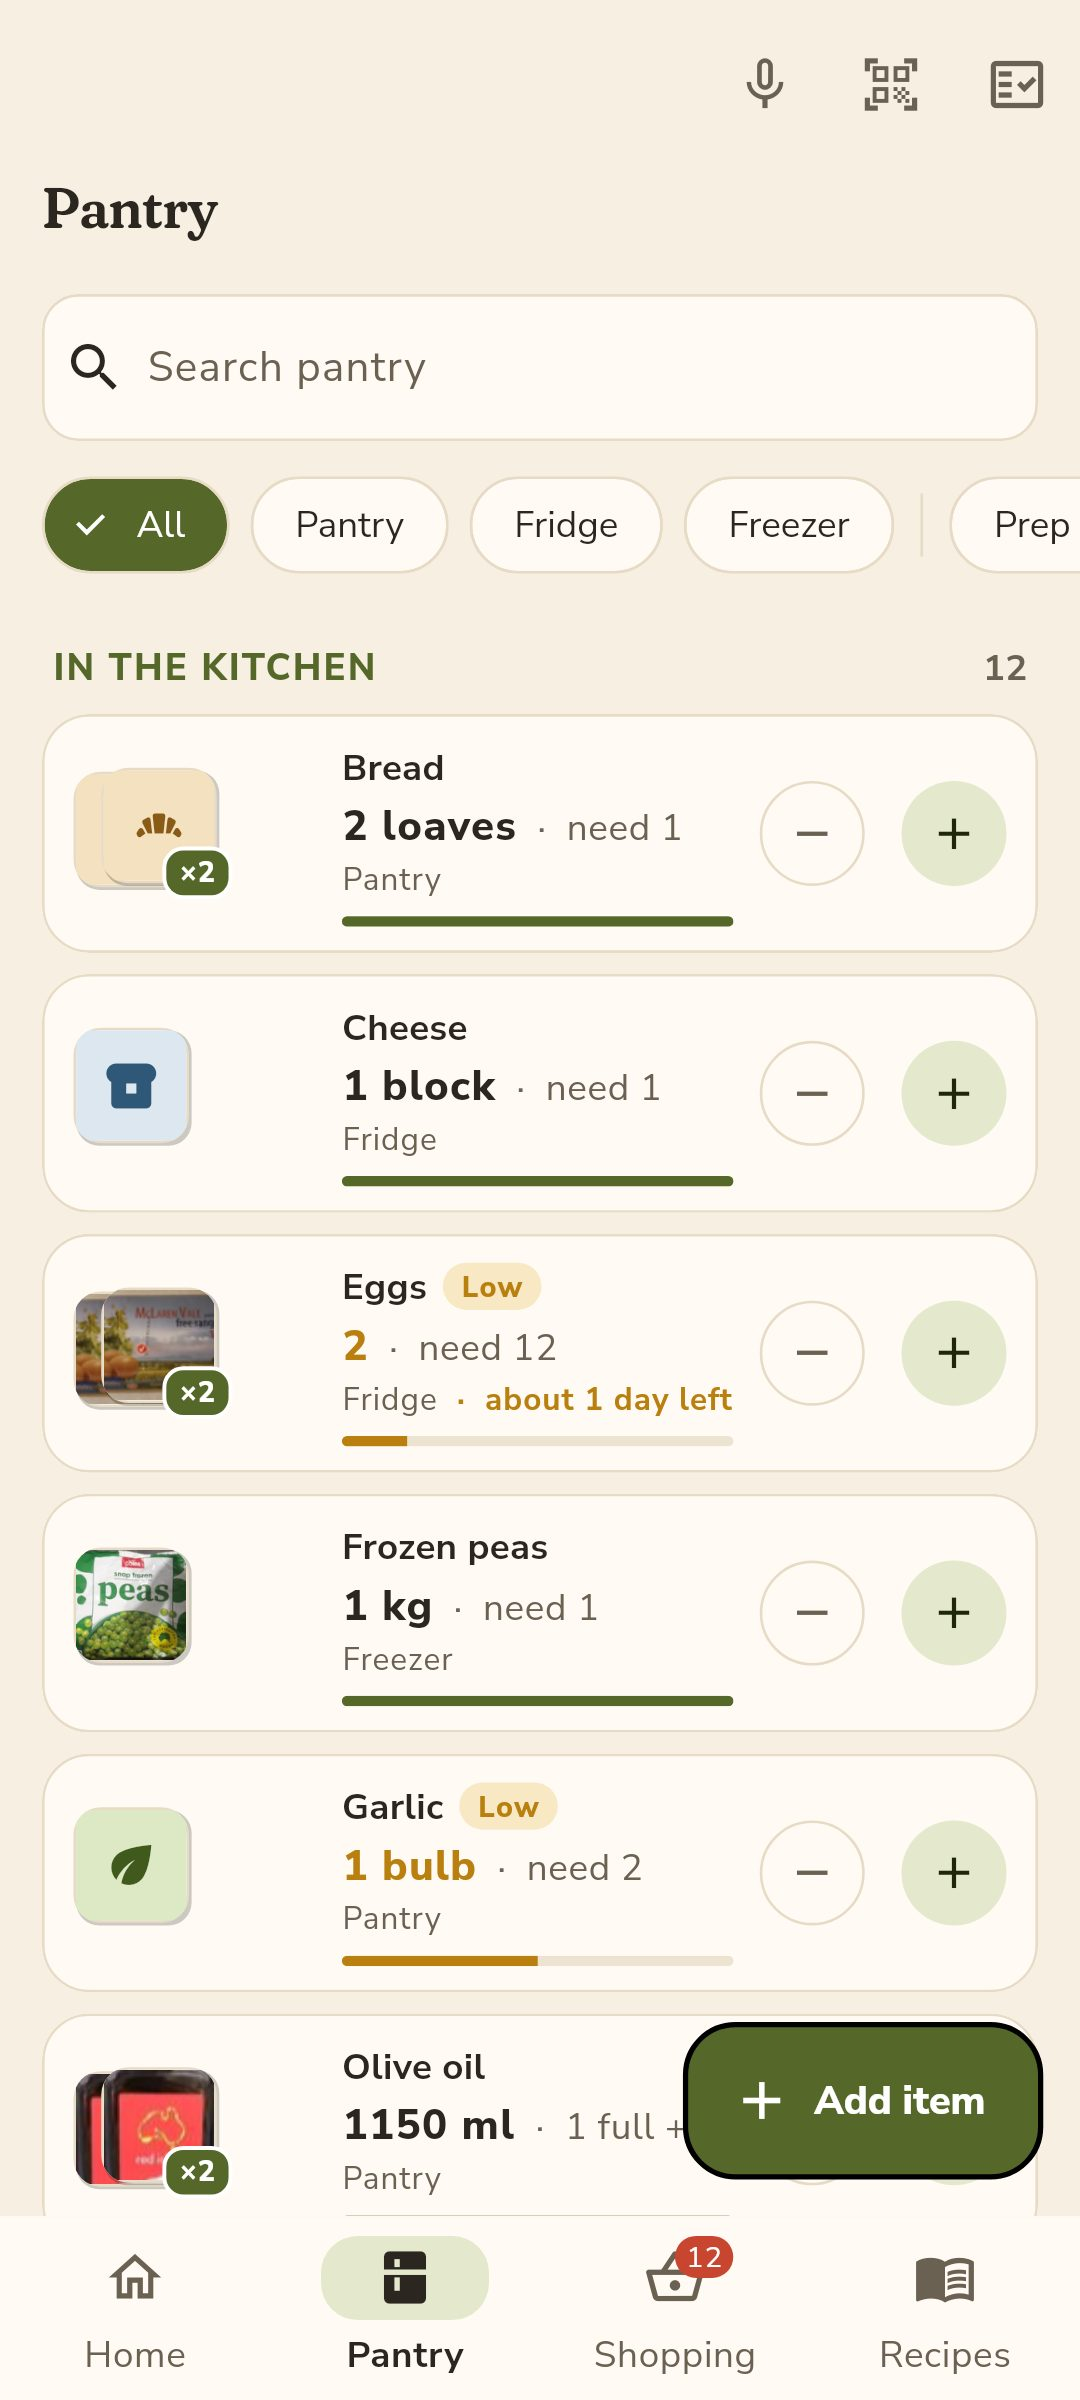
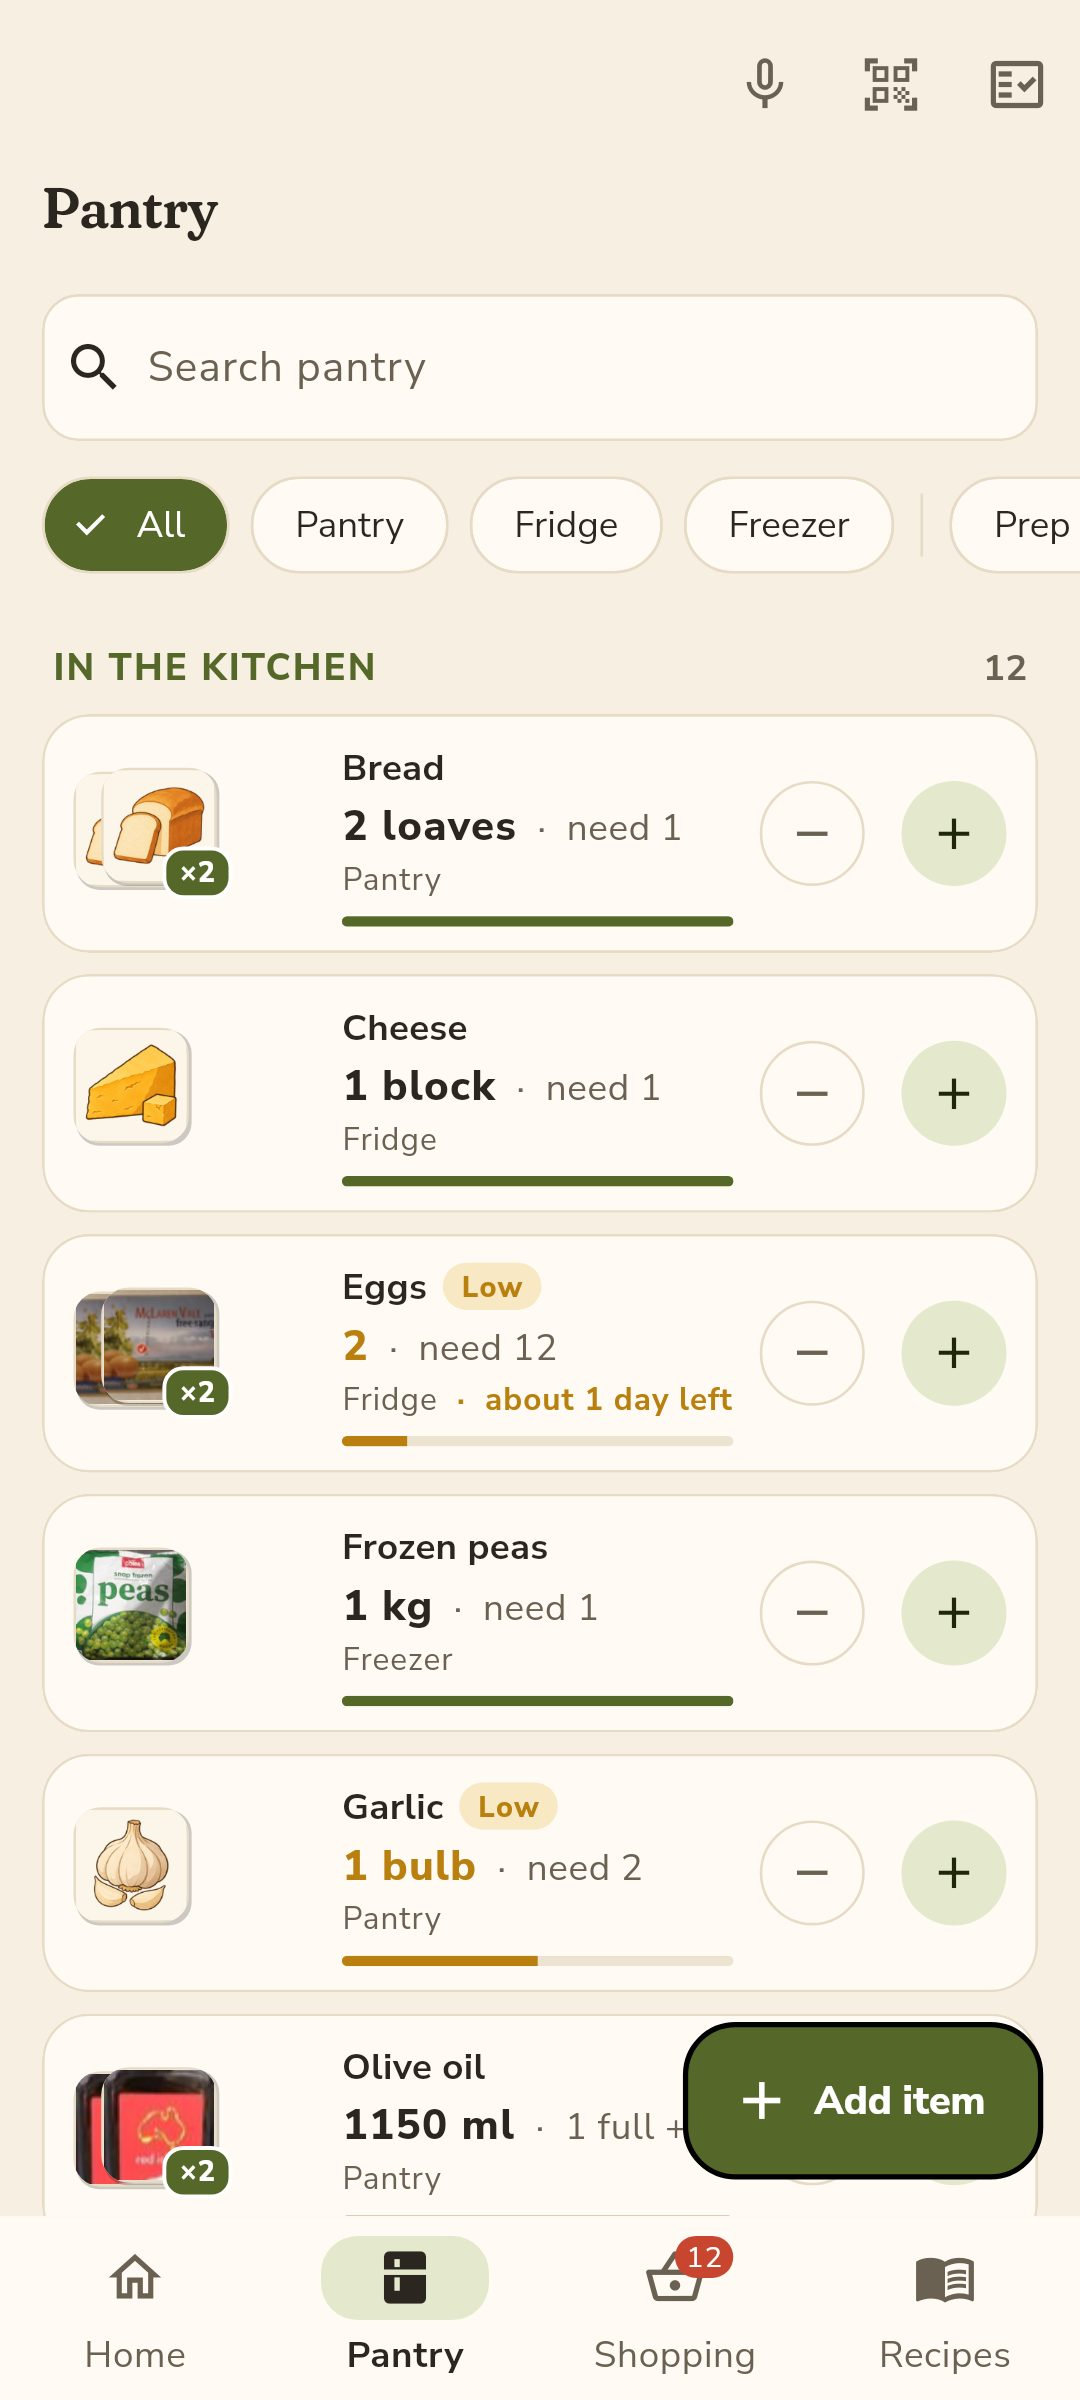
v0.12.0: drawn food pictures (30, ink and wash) (#24)
Chris, 16 Nov 22:08: 'Trim and attach to products'. 30 generated drawings
trimmed to transparent 192 px PNGs in assets/food/, matched by folded name
(artFor in item_look.dart, ownThings guard). Settings > Pictures chooses
product photos or drawings first; own photos always win.

Claude-Session: https://claude.ai/code/session_01M63q4K2MUdGuMQSrokuugd

Changed region(s): [[0.0611, 0.4062, 0.1833, 0.5], [0.0611, 0.3125, 0.2139, 0.375], [0.0611, 0.75, 0.1833, 0.8125]]

diff --git a/test/v012_drawings_test.dart b/test/v012_drawings_test.dart
@@ -1,0 +1,79 @@
+import 'dart:io';
+
+import 'package:flutter_test/flutter_test.dart';
+import 'package:material_ui/material_ui.dart';
+import 'package:pantry_app/data/household_store.dart';
+import 'package:pantry_app/data/storage_backend.dart';
+import 'package:pantry_app/data/store_scope.dart';
+import 'package:pantry_app/ui/theme.dart';
+import 'package:pantry_app/ui/widgets/item_look.dart';
+import 'package:pantry_app/ui/widgets/pictures.dart';
+
+void main() {
+  test('names get the right drawing, however they are typed', () {
+    final cases = <String, String?>{
+      'Bread': 'bread',
+      'Eggs': 'eggs',
+      'UHT milk': 'milk',
+      'Shallots': 'spring-onions',
+      'spring onions': 'spring-onions',
+      'Onions': 'onions',
+      'Tins: tomatoes': 'tinned-tomatoes',
+      'Diced tomatoes': 'tinned-tomatoes',
+      'Tomatoes': 'tomatoes',
+      'Tins: fish': 'tuna',
+      'Baked beans': 'baked-beans',
+      'White rice': 'rice',
+      'Rolled oats': 'oats',
+      'Frozen peas': 'frozen-peas',
+      'Olive oil': 'olive-oil',
+      'Soy sauce': 'soy-sauce',
+      'Beef mince': 'mince',
+      'Chicken thighs': 'chicken',
+      'Washed potatoes': 'potatoes',
+      'Tea bags': 'tea',
+      'Honey': 'honey',
+      // Names of their own: no drawing rather than the wrong one.
+      'Coconut milk': null,
+      'Peanut butter': null,
+      'Chicken stock': null,
+      'Sweet potato': null,
+      'Canola oil': null,
+      'Batteries AAA': null,
+    };
+    for (final MapEntry(key: name, value: art) in cases.entries) {
+      expect(artFor(name), art == null ? isNull : 'assets/food/$art.png', reason: name);
+    }
+  });
+
+  test('every drawing named in the map is in the app', () {
+    for (final name in ['Bread', 'Shallots', 'Tins: fish', 'Rolled oats', 'Honey', 'Frozen peas']) {
+      expect(File(artFor(name)!).existsSync(), isTrue, reason: name);
+    }
+    expect(Directory('assets/food').listSync().where((f) => f.path.endsWith('.png')), hasLength(30));
+  });
+
+  testWidgets('a drawing shows where there is no photo; Drawings puts it first', (tester) async {
+    final store = HouseholdStore(MemoryBackend());
+    await store.load();
+    Widget pic(String name, {String? url}) => StoreScope(
+      store: store,
+      child: MaterialApp(
+        theme: buildTheme(Brightness.light),
+        home: Center(
+          child: ProductPicture(name: name, imageUrl: url),
+        ),
+      ),
+    );
+    await tester.pumpWidget(pic('Shallots'));
+    expect(find.byKey(const ValueKey('picture-drawing')), findsOneWidget);
+    await tester.pumpWidget(pic('Batteries AAA'));
+    expect(find.byKey(const ValueKey('picture-icon')), findsOneWidget);
+    // A product photo wins by default; with Drawings the drawing does.
+    await tester.pumpWidget(pic('Bread', url: 'https://images.openfoodfacts.org/x.jpg'));
+    expect(find.byKey(const ValueKey('picture-drawing')), findsNothing);
+    await store.setSetting('pictures', 'drawings');
+    await tester.pump();
+    expect(find.byKey(const ValueKey('picture-drawing')), findsOneWidget);
+  });
+}

diff --git a/lib/ui/widgets/item_look.dart b/lib/ui/widgets/item_look.dart
@@ -1,5 +1,7 @@
 import 'package:material_ui/material_ui.dart';
 
+import '../../logic/names.dart';
+
 /// What an item looks like when it has no photo: an icon for what it is, on
 /// the colour of its family (greens for fresh food, wheat for bread, blue for
 /// dairy). Replaces the plain first letter (v0.10).
@@ -142,4 +144,57 @@ ItemLook lookFor(String name, {String? locationId}) {
   final byPlace = _byLocation[locationId];
   if (byPlace != null) return ItemLook(byPlace.$1, byPlace.$2);
   return const ItemLook(Icons.shopping_basket, LookFamily.other);
+}
+
+/// Drawn pictures (assets/food/), each with the names it is for, most
+/// specific first. Names are compared folded (names.dart), word by word:
+/// "Shallots" is spring onions, "Tins: fish" is the tuna tin.
+const List<(String, List<String>)> _art = [
+  ('tinned-tomatoes', ['tin tomato', 'tomato tin', 'diced tomato', 'crushed tomato', 'chopped tomato', 'passata']),
+  ('baked-beans', ['baked bean']),
+  ('tuna', ['tuna', 'tin fish', 'fish tin', 'sardine']),
+  ('spring-onions', ['spring onion']),
+  ('olive-oil', ['olive oil']),
+  ('soy-sauce', ['soy sauce', 'tamari']),
+  ('frozen-peas', ['frozen pea', 'pea']),
+  ('mince', ['beef mince', 'pork mince', 'lamb mince', 'chicken mince', 'turkey mince', 'mince']),
+  ('chicken', ['chicken']),
+  ('eggs', ['egg']),
+  ('bread', ['bread', 'loaf', 'toast', 'sandwich bread']),
+  ('milk', ['milk', 'uht', 'full cream milk', 'skim milk']),
+  ('cheese', ['cheese', 'cheddar', 'parmesan', 'mozzarella', 'feta']),
+  ('butter', ['butter', 'margarine']),
+  ('yoghurt', ['yoghurt']),
+  ('rice', ['rice']),
+  ('pasta', ['pasta', 'spaghetti', 'penne', 'macaroni', 'fettuccine', 'lasagne', 'fusilli']),
+  ('flour', ['flour', 'plain flour', 'self raising flour', 'cornflour']),
+  ('sugar', ['sugar', 'brown sugar', 'icing sugar', 'caster sugar', 'raw sugar']),
+  ('onions', ['onion']),
+  ('garlic', ['garlic']),
+  ('potatoes', ['potato']),
+  ('carrots', ['carrot']),
+  ('tomatoes', ['tomato', 'cherry tomato']),
+  ('apples', ['apple']),
+  ('bananas', ['banana']),
+  ('oats', ['oat', 'rolled oat', 'porridge', 'muesli']),
+  ('coffee', ['coffee']),
+  ('tea', ['tea']),
+  ('honey', ['honey']),
+];
+
+/// The drawn picture for [name] (an asset path), or null. A name of its own
+/// that only shares a word ("coconut milk", "peanut butter", "chicken
+/// stock", "sweet potato") gets none rather than the wrong one.
+String? artFor(String name) {
+  final n = ' ${canonicalName(name)} ';
+  if (n.trim().isEmpty) return null;
+  for (final (art, phrases) in _art) {
+    for (final p in phrases) {
+      if (!n.contains(' $p ')) continue;
+      final clash = ownThings.any((t) => n.contains(' $t ') && !phrases.contains(t));
+      if (clash) break;
+      return 'assets/food/$art.png';
+    }
+  }
+  return null;
 }

diff --git a/lib/ui/widgets/pictures.dart b/lib/ui/widgets/pictures.dart
@@ -4,12 +4,15 @@ import 'dart:typed_data';
 import 'package:material_ui/material_ui.dart';
 
 import '../../data/picture_cache.dart';
+import '../../data/store_scope.dart';
 import '../../models/models.dart';
 import 'item_look.dart';
 
 /// One product's picture: the household's own photo first, then the product
-/// picture (downloaded once, then read from the phone), else an icon for what
-/// it is on its family's colour (item_look.dart), never a wrong picture.
+/// picture (downloaded once, then read from the phone), then a drawing of
+/// the food (assets/food/, v0.12; first of all when Settings > Pictures says
+/// Drawings), else an icon for what it is on its family's colour
+/// (item_look.dart), never a wrong picture.
 class ProductPicture extends StatefulWidget {
   const ProductPicture({
     super.key,
@@ -78,6 +81,21 @@ class _ProductPictureState extends State<ProductPicture> {
   /// Decoded at about three times the drawn size: sharp, and small in memory.
   ImageProvider cacheWidthOf(ImageProvider image) => ResizeImage(image, width: (widget.size * 3).round());
 
+  /// One of the drawn food pictures (assets/food/) on the cream it was drawn on.
+  Widget _drawing(BuildContext context, String asset) => Container(
+    key: const ValueKey('picture-drawing'),
+    width: widget.size,
+    height: widget.size,
+    color: Theme.of(context).colorScheme.surfaceContainerLow,
+    padding: EdgeInsets.all(widget.size * 0.06),
+    child: Image.asset(
+      asset,
+      fit: BoxFit.contain,
+      cacheWidth: (widget.size * 3).round(),
+      errorBuilder: (_, _, _) => _blank(context),
+    ),
+  );
+
   Widget _blank(BuildContext context) {
     final b = Theme.of(context).brightness;
     final look = lookFor(widget.name, locationId: widget.item?.locationId);
@@ -96,8 +114,13 @@ class _ProductPictureState extends State<ProductPicture> {
     final scheme = Theme.of(context).colorScheme;
     Widget child;
     final own = widget.photoPath;
+    final art = artFor(widget.name);
+    // Settings > Pictures: drawings first, or product photos first (default).
+    final drawingsFirst = StoreScope.maybeOf(context)?.setting<String>('pictures', 'photos') == 'drawings';
     if (own != null && File(own).existsSync()) {
       child = _image(FileImage(File(own)));
+    } else if (art != null && (drawingsFirst || _bytes == null)) {
+      child = _drawing(context, art);
     } else if (_bytes != null) {
       child = FutureBuilder<Uint8List?>(
         future: _bytes,

diff --git a/lib/ui/pages/settings_page.dart b/lib/ui/pages/settings_page.dart
@@ -71,6 +71,26 @@ class SettingsPage extends StatelessWidget {
             subtitle: const Text('Replaces what is on this phone with the backup'),
             onTap: () => _restore(context),
           ),
+          const SectionHeader('Pictures'),
+          Padding(
+            padding: const EdgeInsets.symmetric(horizontal: 16),
+            child: SegmentedButton<String>(
+              key: const ValueKey('picture-style'),
+              segments: const [
+                ButtonSegment(value: 'photos', label: Text('Product photos'), icon: Icon(Icons.photo_outlined)),
+                ButtonSegment(value: 'drawings', label: Text('Drawings'), icon: Icon(Icons.brush_outlined)),
+              ],
+              selected: {store.setting<String>('pictures', 'photos')},
+              onSelectionChanged: (s) => store.setSetting('pictures', s.first),
+            ),
+          ),
+          const Padding(
+            padding: EdgeInsets.fromLTRB(16, 8, 16, 0),
+            child: Text(
+              'Your own photos always show first. Then product photos or the drawings, whichever you pick; '
+              'the other fills in where there is none. Shared with the household.',
+            ),
+          ),
           const SectionHeader('Stock list'),
           ListTile(
             leading: const Icon(Icons.upload_file_outlined),

diff --git a/tool/screens/screens_test.dart b/tool/screens/screens_test.dart
@@ -337,4 +337,18 @@ void main() {
     );
     await shot(tester, '17-recipe-names');
   });
+
+  testWidgets('v0.12 drawings', (tester) async {
+    tester.view.physicalSize = const Size(1080, 2400);
+    tester.view.devicePixelRatio = 2.625;
+    addTearDown(tester.view.reset);
+    final store = await demoStore();
+    await store.setSetting('pictures', 'drawings');
+    await tester.pumpWidget(PantryApp(store: store));
+    await tester.pumpAndSettle();
+    await tester.tap(find.byKey(const ValueKey('nav-pantry')));
+    await shot(tester, '18-pantry-drawings');
+    await tester.tap(find.byKey(const ValueKey('nav-shopping')));
+    await shot(tester, '19-shopping-drawings');
+  });
 }

diff --git a/lib/data/store_scope.dart b/lib/data/store_scope.dart
@@ -13,6 +13,10 @@ class StoreScope extends InheritedNotifier<HouseholdStore> {
     return scope!.notifier!;
   }
 
+  /// The store, listening, or null where there is none (tests of a widget).
+  static HouseholdStore? maybeOf(BuildContext context) =>
+      context.dependOnInheritedWidgetOfExactType<StoreScope>()?.notifier;
+
   /// Reads the store without listening (for callbacks).
   static HouseholdStore read(BuildContext context) {
     final element = context.getElementForInheritedWidgetOfExactType<StoreScope>();

diff --git a/README.md b/README.md
@@ -21,6 +21,7 @@ Built by [Combination Soup Studio](https://combinationsoupstudio.com.au) in Bate
   <img src="docs/screens/13-use-by-dates.jpg" width="200" alt="Use-by dates grouped: past its date, within a week, within a month, later">
   <img src="docs/screens/14-stocktake.jpg" width="200" alt="Stocktake: one item at a time, That's right or count it">
   <img src="docs/screens/15-receipt.jpg" width="200" alt="Checking a scanned Woolworths receipt: lines matched to stock, total matches">
+  <img src="docs/screens/18-pantry-drawings.jpg" width="200" alt="The Pantry with drawn ink-and-wash food pictures">
   <img src="docs/screens/17-recipe-names.jpg" width="200" alt="A recipe asks: Is it your Shallots? for 3 spring onoins">
   <img src="docs/screens/16-household.jpg" width="200" alt="Household sync: synced just now, add another phone">
 </p>
@@ -118,10 +119,11 @@ flutter run         # on a connected phone or emulator
 | **6** | 0.9 | Household sync between phones (Cloudflare Worker, one database per household); instant updates over a live line while the app is open. **Done.** |
 | **6b** | 0.10 | Warm pantry look; four tabs (Pantry holds the stored-away stock); icons for things without a photo; lighter rows; tidier shopping list. **Done.** |
 | **6c** | 0.11 | Names match however they are typed: same-thing names folded, close spellings asked once and remembered, "also called". **Done.** |
-| 6d | 0.11.x | Shared own photos (R2). |
-| 7 | 0.12 | Smart Shopper: cost per meal, weekly challenges, savings, health grade over time. |
-| 8 | 0.13 | Meal planner, family and pet pages, shop mode; home-screen widget and printable stock sheet. |
-| 9 | 0.14 | AI extras: ask the pantry, local specials, messy receipts (a small, cheap model behind the Worker). |
+| **6d** | 0.12 | Drawn food pictures (30, ink and wash), Settings > Pictures. **Done.** |
+| 6e | 0.12.x | Shared own photos (R2); more drawings (hygiene, medical, garage). |
+| 7 | 0.13 | Smart Shopper: cost per meal, weekly challenges, savings, health grade over time. |
+| 8 | 0.14 | Meal planner, family and pet pages, shop mode; home-screen widget and printable stock sheet. |
+| 9 | 0.15 | AI extras: ask the pantry, local specials, messy receipts (a small, cheap model behind the Worker). |
 
 Decisions are recorded as [ADRs](docs/adr/). Changes are listed in the [changelog](CHANGELOG.md).
 

diff --git a/CHANGELOG.md b/CHANGELOG.md
@@ -4,6 +4,13 @@ All notable changes to this project are listed here. Format: [Keep a Changelog](
 
 ## [Unreleased]
 
+## [0.12.0] - 2026-11-16
+
+### Added
+- **Drawn food pictures.** 30 soft ink-and-wash drawings in the style of *The 90 Day Blackout* (bread, eggs, milk, cheese, butter, yoghurt, rice, pasta, flour, sugar, tinned tomatoes, baked beans, tuna, olive oil, soy sauce, onions, garlic, potatoes, carrots, spring onions, tomatoes, apples, bananas, oats, coffee, tea, chicken, mince, frozen peas, honey), trimmed to sit on the cards and bundled in the app (1.4 MB, no download).
+- They go on by name, however it is typed: Shallots get the spring onions, "Tins: fish" the tuna tin, "Diced tomatoes" the tin. Names of their own that share a word (coconut milk, peanut butter, chicken stock, sweet potato) get none rather than the wrong one.
+- **Settings > Pictures: Product photos / Drawings.** Your own photos always come first; then whichever you pick, with the other filling in. Shared with the household.
+
 ## [0.11.0] - 2026-11-16
 
 ### Added

diff --git a/assets/food/README.md b/assets/food/README.md
@@ -1,0 +1,7 @@
+# Drawn food pictures
+
+30 ink-and-wash drawings, one per everyday food, shown for an item with no photo of its own (or for every item, when Settings > Pictures is set to Drawings).
+
+- Made 16 Nov 2026 with Higgsfield `gpt_image_2_6` (text to image, 1:1), in the house ink-and-wash style of *The 90 Day Blackout* adapted for small icons. The prompts are in `jobs/INIT-pantry-app/design/icons-preview-20261116/_prompts.json` in the studio folder.
+- Trimmed: the cream paper flood-filled away from the edges (tolerance 28), cropped to the drawing, squared with a 6% margin, 192 px, transparent PNG.
+- Which names get which drawing: `artFor()` in `lib/ui/widgets/item_look.dart`.
